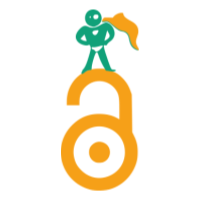
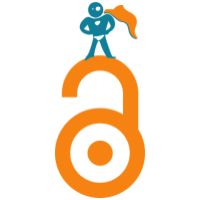
Module 2 - debut

Changed region(s): [[0.27, 0.0, 0.75, 0.99], [0.42, 0.69, 0.57, 0.84]]

diff --git a/theme.sass b/theme.sass
@@ -16,14 +16,14 @@
     // Colors
     --color-back: #fff
     --color-front: #444
-    --color-theme: #10A179
+    --color-theme: #0e7e98
     --color-theme-contrast: #fff
     --color-subtle-dark: #777
     --color-subtle-medium: #eee
     --color-subtle-light: #f9f9f9
     --color-background-code: #7a818117
 
-    --color-button-primary: #F6A018
+    --color-button-primary: #f68112
     --color-button-primary-contrast: #fff
     --color-button-secondary: #cdcdd4
     --color-button-secondary-contrast: #686873

diff --git a/slides/chapter2_01_introduction.md b/slides/chapter2_01_introduction.md
@@ -2,11 +2,65 @@
 type: slides
 ---
 
+# Pourquoi le libre accès?
+
+Notes: Plusieurs raisons sont valables lorsqu'il est question de vouloir faire du libre accès. Cependant, plusieurs mythes et préjugés persistent encore de nos jours. Pour cette raison, ce module expliquera ce qu'est le libre accès et ses avantages en proposant des lectures sur les mythes. Il s'agit d'un complément à l'infographie qui vous a mené ici!
+
+---
+<!-- .slide data-background-iframe="http://www.frqs.gouv.qc.ca/espace-presse/nouvelles-et-communiques/nouvelle/les-fonds-de-recherche-du-quebec-devoilent-leur-politique-sur-le-libre-acces-ynqdk6uy1554124767115" data-background-interactive> -->
+
+# Nouvelle politique implantée au Québec!!
+
+Saviez-vous que le 15 avril 2019, une nouvelle politique sur le libre accès a été instauré par les Fonds de recherche du Québec(FRQ):
+
+Cette politique témoigne de la volonté des FRQ de contribuer à rendre la recherche qu'ils soutiennent plus ouverte, équitable et responsable, dans un esprit de développement durable.
+
+
+Il s'agit d'une politique qui touche tous les individus financés par les FRQ, touchant ainsi aussi les étudiants et les étudiantes boursières!
+
+Notes: Vous pouvez trouver la nouvelle politique sur le libre accès des FRQ [ici](http://www.frqsc.gouv.qc.ca/science-ouverte)
+
+Nous sommes très heureux de voir le Québec joindre la vague de libre accès! Maintenant, il ne vous reste qu'à comprendre les différents termes en lien avec ce dernier ;)
+---
 # Définition du libre accès (Open Access)
 
-Notes: on parle de libre accès à la recherche lorsque les articles scientifiques sont accessibles sans restriction et gratuitement à travers différents moyens, tels que dans des dépôts institutionnels ou dans des revues de type libre accès.
+## La connaissance scientifique accessible:
+* sans restriction
+* gratuitement
+* pour le plus grand nombre de personnes possibles
+
+<a class="fragment"><img src="oa_1.png" alt="Open Access, no limit!" height="40%"></a>
+
+Notes: On parle de libre accès à la recherche lorsque les articles scientifiques sont accessibles sans restriction et gratuitement à travers différents moyens, tels que dans des dépôts institutionnels ou dans des revues de type libre accès.
 
 Sources:
-Making open science a reality (OECD Science, Technology and Industry Policy Papers No 25). (2015). https://doi.org/10.1787/5jrs2f963zs1-en
+[Making open science a reality (OECD Science, Technology and Industry Policy Papers No 25). (2015).](https://doi.org/10.1787/5jrs2f963zs1-en)
 
-Libre accès à la recherche. (s. d.). Consulté 23 avril 2019, à l’adresse Bibliothèques - Université de Montréal website: https://bib.umontreal.ca/gerer-diffuser/libre-acces
+[Libre accès à la recherche - Excellente ressource de l'Université de Montréal](https://bib.umontreal.ca/gerer-diffuser/libre-acces)
+
+---
+
+# Proportions des types de revues savantes en 2016
+
+<img src="oa_3.png" alt="" height="100%"></a>
+
+Notes: Près de 40% des revues savantes publient leurs articles derrière un paywall et permettent généralement une publication en ligne de versions gratuites qu’après au moins 6 mois.
+
+Les revues scientifiques “delayed OA” publient des articles derrière un *paywall* qui requièrent un paiement afin de les consulter. Ils n'autorisent généralement la publication en ligne de versions gratuites qu'après un certain délai variant de 6 à 24 mois.
+
+*La somme des pourcentages du graphique ne correspond pas à 100%, car les chiffres sont arrondis.
+
+Source:
+[Else, H. (2018, septembre 6). Radical plan to end paywalls. NATURE: international journal of science, 561, 17‑18.](https://www.nature.com/articles/d41586-018-06178-7)
+
+
+---
+<!-- .slide: data-background="oa_2.png" data-background-size="contain" style="color:black" data-transition="zoom" -->
+
+# Des avantages?
+
+Notes: Si autant de revues savantes sont derrière un paywall, comment fait-on pour bénéficier de tous ses avantages en publiant en libre accès?
+
+Après avoir consulté les différents avantages, vous apprendrez les différents types de libre accès!
+
+Saviez-vous que nous pouvions exercer du libre accès **tout à fait gratuitement**? :O
